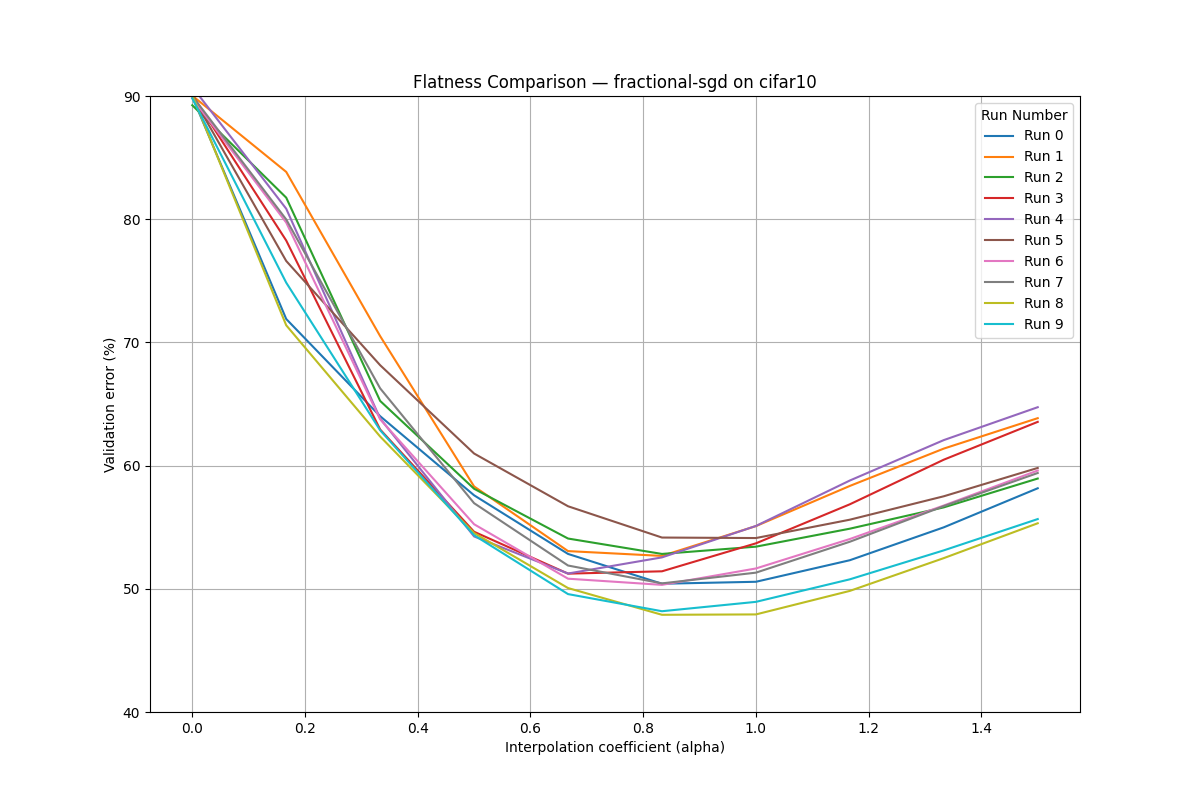
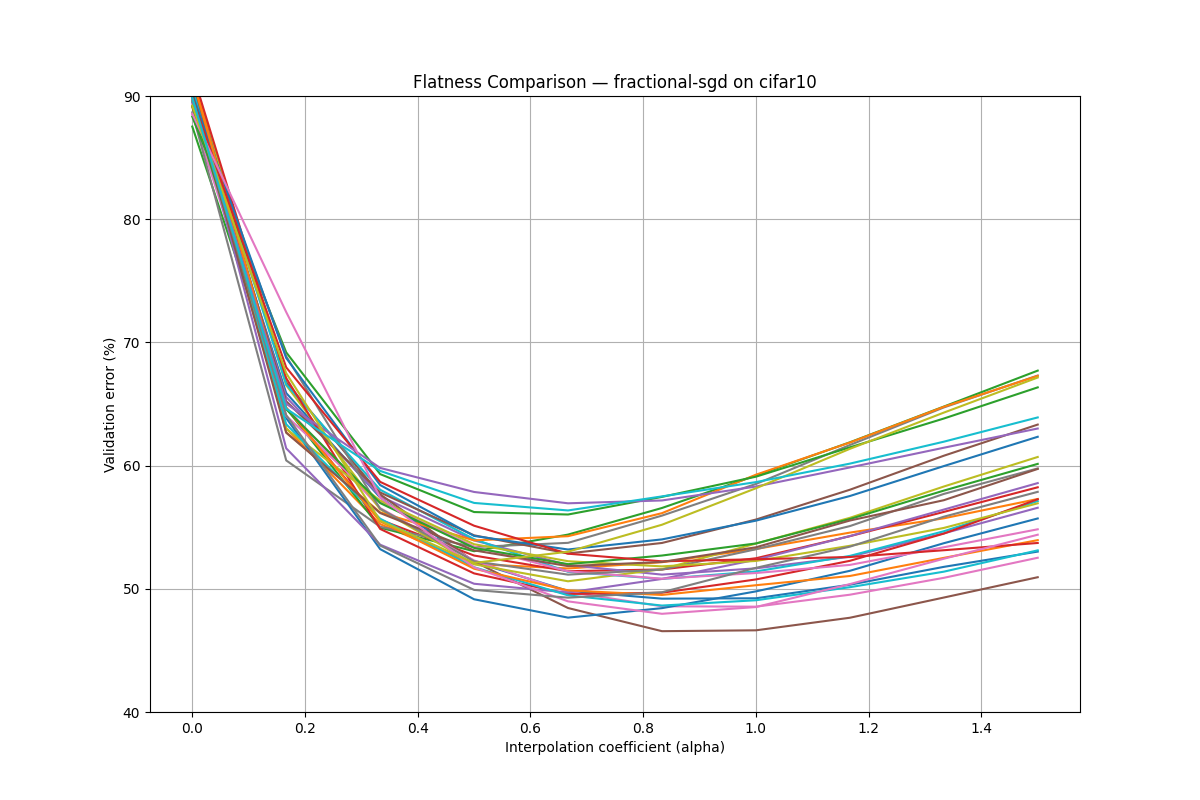
helena plots

Changed region(s): [[0.1542, 0.125, 0.8633, 0.8125], [0.8017, 0.125, 0.8942, 0.4062]]

diff --git a/NeuralNetwork.py b/NeuralNetwork.py
@@ -32,17 +32,6 @@ class HelenaMLP(nn.Module):
     def __init__(self, input_dim=27, num_classes=100):
         super(HelenaMLP, self).__init__()
         self.model = nn.Sequential(
-            # nn.Linear(input_dim, 512),
-            # nn.ReLU(),
-            # nn.Linear(512, 1024),
-            # nn.ReLU(),
-            # nn.Linear(1024, 1024),
-            # nn.ReLU(),
-            # nn.Linear(1024, 512),
-            # nn.ReLU(),
-            # nn.Linear(512, 256),
-            # nn.ReLU(),
-            # nn.Linear(256, num_classes),
             nn.Linear(input_dim, 4096),
             nn.ReLU(),
             nn.Linear(4096, 2048),
@@ -67,17 +56,6 @@ class CIFAR10MLP(nn.Module):
         super(CIFAR10MLP, self).__init__()
 
         self.model = nn.Sequential(
-            # nn.Linear(input_dim, 2048),
-            # nn.ReLU(),
-            # nn.Linear(2048, 4096),
-            # nn.ReLU(),
-            # nn.Linear(4096, 4096),
-            # nn.ReLU(),
-            # nn.Linear(4096, 2048),
-            # nn.ReLU(),
-            # nn.Linear(2048, 512),
-            # nn.ReLU(),
-            # nn.Linear(512, num_classes),
             nn.Linear(input_dim, 4096),
             nn.ReLU(),
             nn.Linear(4096, 2048),

diff --git a/main.py b/main.py
@@ -126,7 +126,7 @@ def plot_flatness(
 
     if ax is None:
         fig, ax = plt.subplots()
-    ax.plot(alpha_v, v_err, label=f"Run {model_id}")
+    ax.plot(alpha_v, v_err)
     ax.grid(True)
 
 
@@ -287,9 +287,6 @@ if __name__ == "__main__":
 
         sharpness = compute_sharpness(model, nn.CrossEntropyLoss(), test_loader, device)
         print(f"Sharpness: {sharpness:.2f}%")
-    ax.legend(
-        title="Run Number",
-    )
 
     ax.set_title(f"Flatness Comparison — {args.optimizer} on {args.data}")
     ax.set_xlabel("Interpolation coefficient (alpha)")
